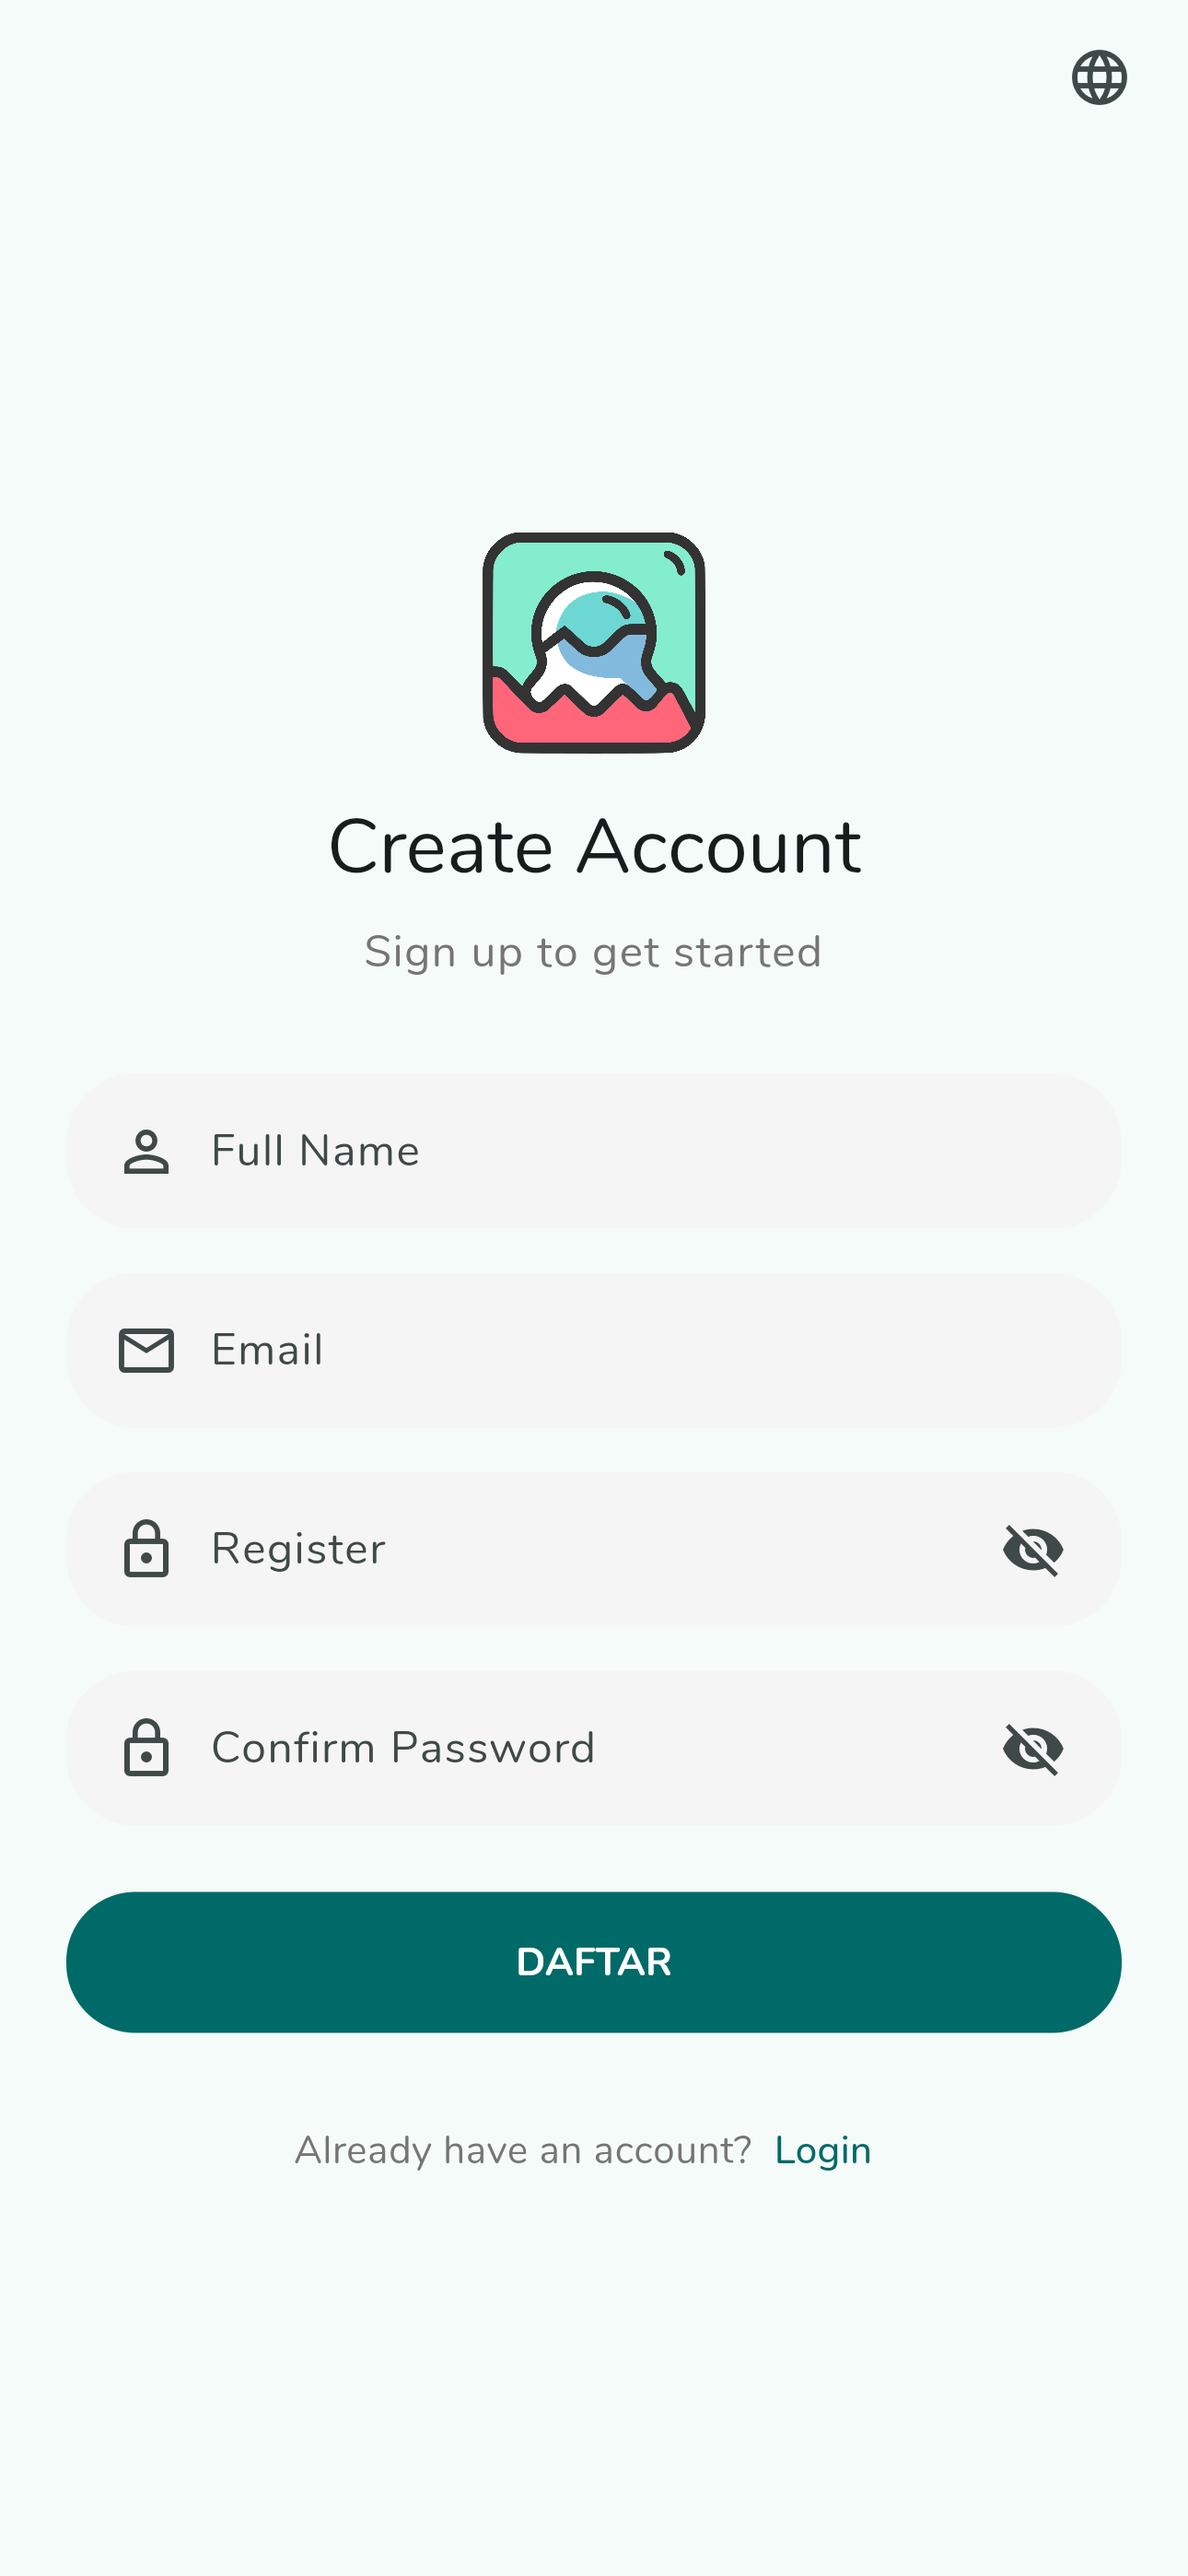
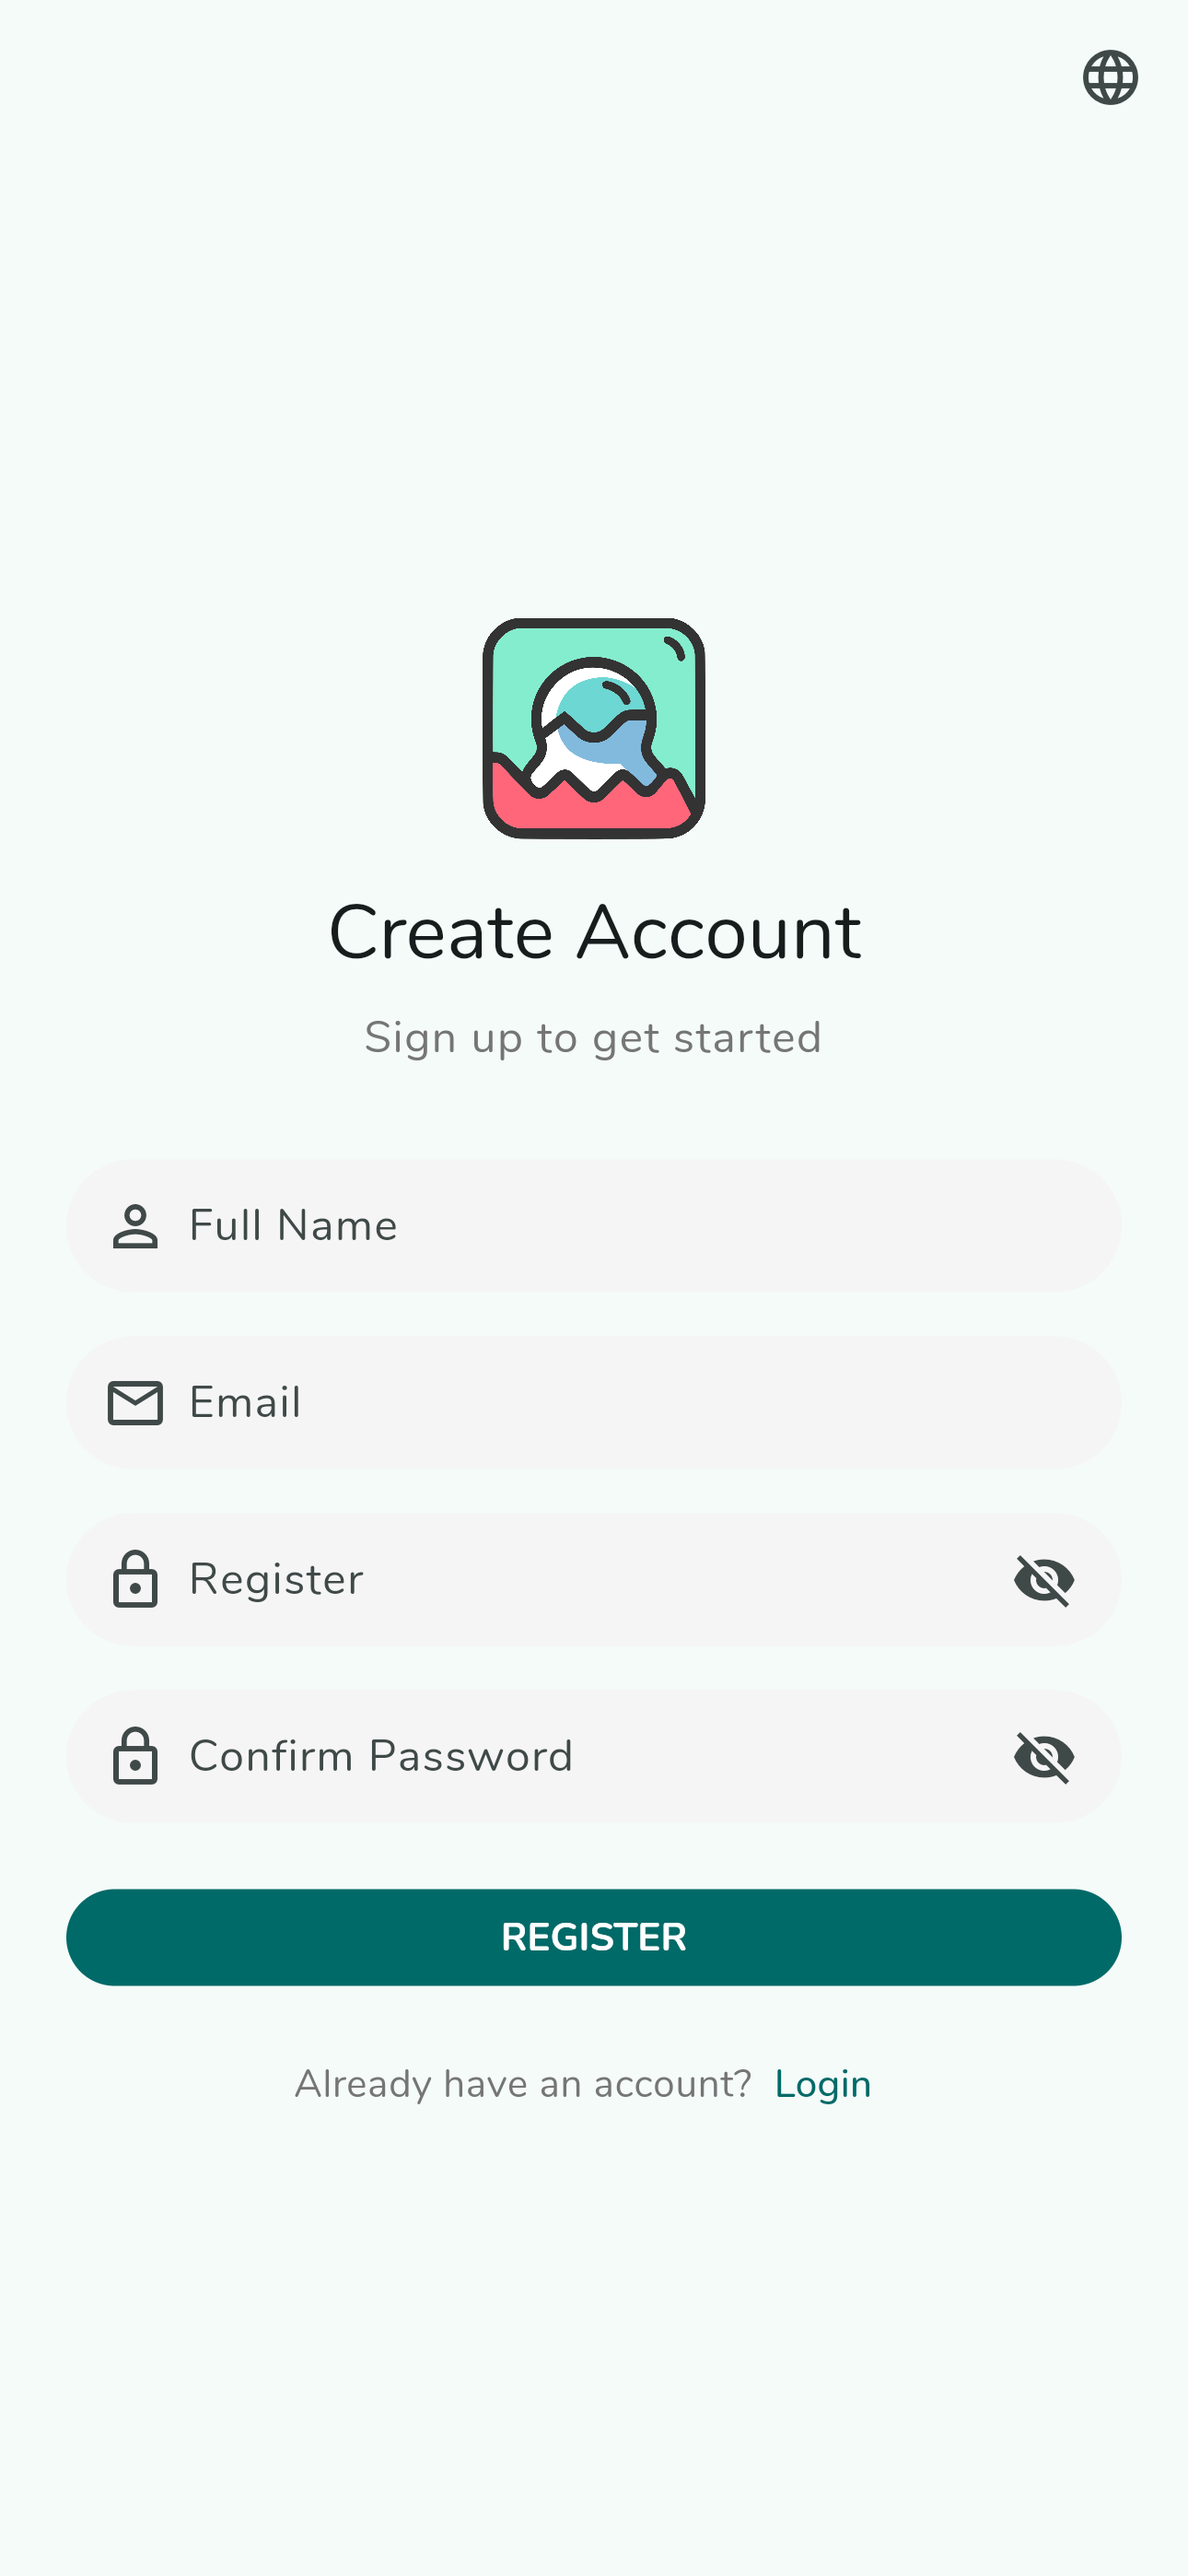
fix: resolve incorrect localization

diff --git a/lib/core/localization/l10n/app_localizations_en.dart b/lib/core/localization/l10n/app_localizations_en.dart
@@ -67,7 +67,7 @@ class AppLocalizationsEn extends AppLocalizations {
   String get register_lower => 'Register';
 
   @override
-  String get register_upper => 'DAFTAR';
+  String get register_upper => 'REGISTER';
 
   @override
   String get register_success => 'Register success';

diff --git a/README.md b/README.md
@@ -55,24 +55,24 @@ samples, guidance on mobile development, and a full API reference.
 
 <details>
 <summary>📱 Mobile Platform | 🌞 Light Mode</summary>
-<img src="./doc/screenshots/mobile-login.png" width=200 alt="Mobile Login Screen Light Mode">&nbsp;
-<img src="./doc/screenshots/mobile-register.png" width=200 alt="Mobile Register Screen Light Mode">&nbsp;
-<img src="./doc/screenshots/mobile-localization.png" width=200 alt="Mobile Localization Dialog Light Mode">&nbsp;
-<img src="./doc/screenshots/mobile-home.png" width=200 alt="Mobile Home Screen Light Mode">&nbsp;
-<img src="./doc/screenshots/mobile-upload-story.png" width=200 alt="Mobile Upload Story Screen Light Mode">&nbsp;
-<img src="./doc/screenshots/mobile-settings.png" width=200 alt="Mobile Settings Screen Light Mode">&nbsp;
+<img src="./doc/screenshots/mobile-login.png" width=300 alt="Mobile Login Screen Light Mode">&nbsp;
+<img src="./doc/screenshots/mobile-register.png" width=300 alt="Mobile Register Screen Light Mode">&nbsp;
+<img src="./doc/screenshots/mobile-localization.png" width=300 alt="Mobile Localization Dialog Light Mode">&nbsp;
+<img src="./doc/screenshots/mobile-home.png" width=300 alt="Mobile Home Screen Light Mode">&nbsp;
+<img src="./doc/screenshots/mobile-upload-story.png" width=300 alt="Mobile Upload Story Screen Light Mode">&nbsp;
+<img src="./doc/screenshots/mobile-settings.png" width=300 alt="Mobile Settings Screen Light Mode">&nbsp;
 </details>
 
 <br>
 
 <details>
 <summary>📱 Mobile Platform | 🌙 Dark Mode</summary>
-<img src="./doc/screenshots/mobile-login-dark.png" width=200 alt="Mobile Login Screen Dark Mode">&nbsp;
-<img src="./doc/screenshots/mobile-register-dark.png" width=200 alt="Mobile Register Screen Dark Mode">&nbsp;
-<img src="./doc/screenshots/mobile-localization-dark.png" width=200 alt="Mobile Localization Dialog Dark Mode">&nbsp;
-<img src="./doc/screenshots/mobile-home-dark.png" width=200 alt="Mobile Home Screen Dark Mode">&nbsp;
-<img src="./doc/screenshots/mobile-upload-story-dark.png" width=200 alt="Mobile Upload Story Screen Dark Mode">&nbsp;
-<img src="./doc/screenshots/mobile-settings-dark.png" width=200 alt="Mobile Settings Screen Dark Mode">&nbsp;
+<img src="./doc/screenshots/mobile-login-dark.png" width=300 alt="Mobile Login Screen Dark Mode">&nbsp;
+<img src="./doc/screenshots/mobile-register-dark.png" width=300 alt="Mobile Register Screen Dark Mode">&nbsp;
+<img src="./doc/screenshots/mobile-localization-dark.png" width=300 alt="Mobile Localization Dialog Dark Mode">&nbsp;
+<img src="./doc/screenshots/mobile-home-dark.png" width=300 alt="Mobile Home Screen Dark Mode">&nbsp;
+<img src="./doc/screenshots/mobile-upload-story-dark.png" width=300 alt="Mobile Upload Story Screen Dark Mode">&nbsp;
+<img src="./doc/screenshots/mobile-settings-dark.png" width=300 alt="Mobile Settings Screen Dark Mode">&nbsp;
 </details>
 
 <br>
@@ -92,9 +92,9 @@ samples, guidance on mobile development, and a full API reference.
 <details>
 <summary>🌐 Desktop Web Platform | 🌙 Dark Mode</summary>
 <img src="./doc/screenshots/dekstop-login-dark.png" width=400 alt="Desktop Mobile Login Screen Dark Mode">&nbsp;
-<img src="./doc/screenshots/dekstop-register-dark.png" width=400 alt="Desktop Mobile Register Screen Dark Mode">&nbsp;
+<img src="./doc/screenshots/desktop-register-dark.png" width=400 alt="Desktop Mobile Register Screen Dark Mode">&nbsp;
 <img src="./doc/screenshots/desktop-localization-dark.png" width=400 alt="Desktop Mobile Localization Dialog Dark Mode">&nbsp;
-<img src="./doc/screenshots/dekstop-home-dark.png" width=400 alt="Desktop Mobile Home Screen Dark Mode">&nbsp;
-<img src="./doc/screenshots/dekstop-upload-story-dark.png" width=400 alt="Desktop Mobile Upload Story Screen Dark Mode">&nbsp;
+<img src="./doc/screenshots/desktop-home-dark.png" width=400 alt="Desktop Mobile Home Screen Dark Mode">&nbsp;
+<img src="./doc/screenshots/desktop-upload-story-dark.png" width=400 alt="Desktop Mobile Upload Story Screen Dark Mode">&nbsp;
 <img src="./doc/screenshots/desktop-settings-dark.png" width=400 alt="Desktop Mobile Settings Screen Dark Mode">&nbsp;
 </details>
